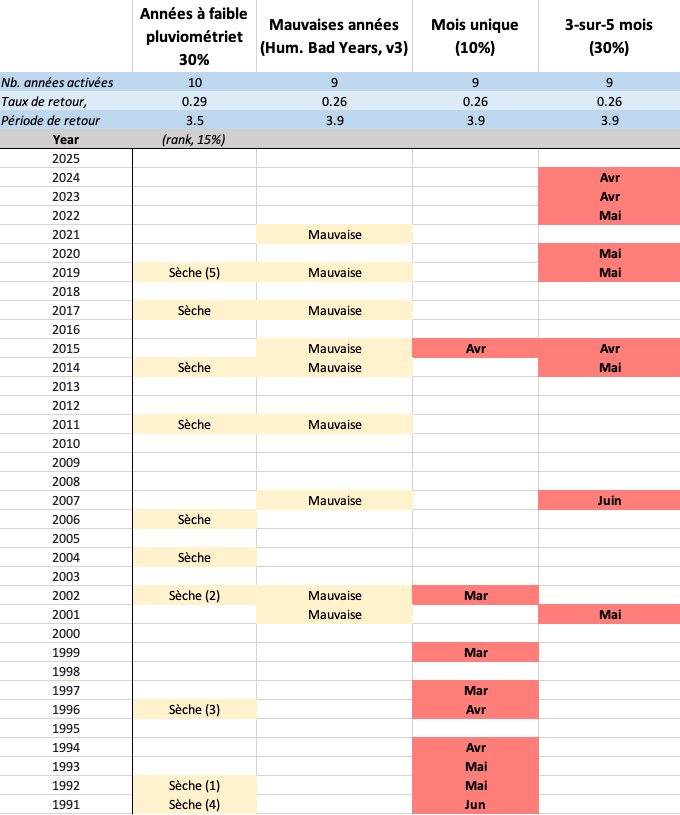
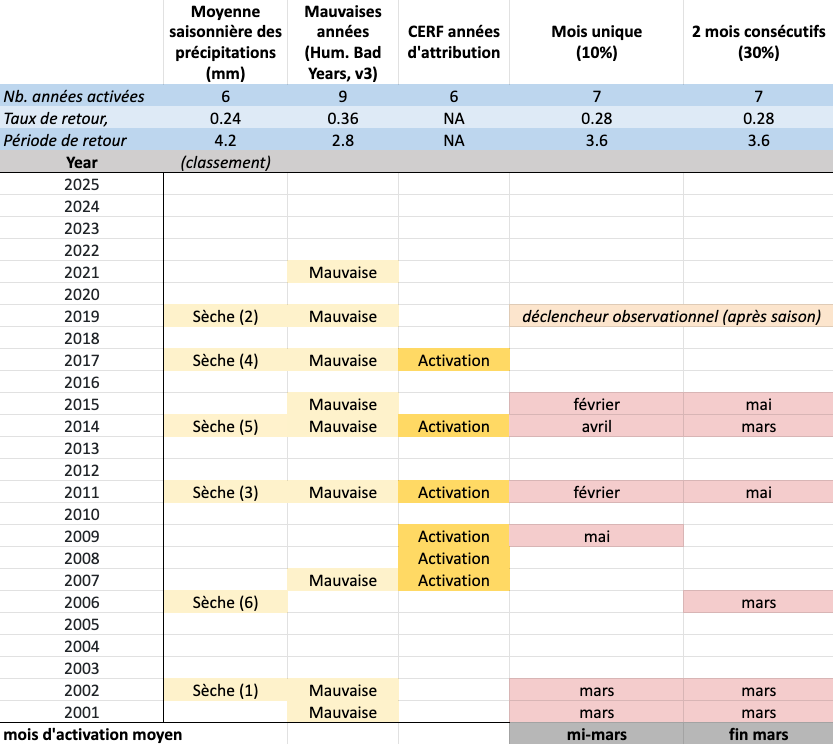
fixing options figure and text

diff --git a/docs/options.md b/docs/options.md
@@ -2,9 +2,6 @@
 
 ## The options are below
 
-## **WE ARE UPDATING THE OPTIONS BASED ON THE DISCUSSION IN THE LAST MEETING**
-
-
 ![](packageoptions.png)
 
 The table presents options as columns compared to the humanitarian crises and the lowest rainfall years.  
@@ -24,9 +21,7 @@ Please look carefully at the table, discuss, and then put your thoughts into the
 
 ## **WE HAVE DISABLED THE FORM UNTIL WE HAVE UPDATED THE OPTIONS**
 
-<!-- comment out the real form until ready
 <div id="slide-config" data-type="kobo" data-next="../finished/" data-kobo-id="mwm1aL8O" data-width="100%"> </div>
->
 
 <div id="slide-config" data-type="kobo" data-next="../finished/" data-kobo-id="" data-width="100%"> </div>
 
